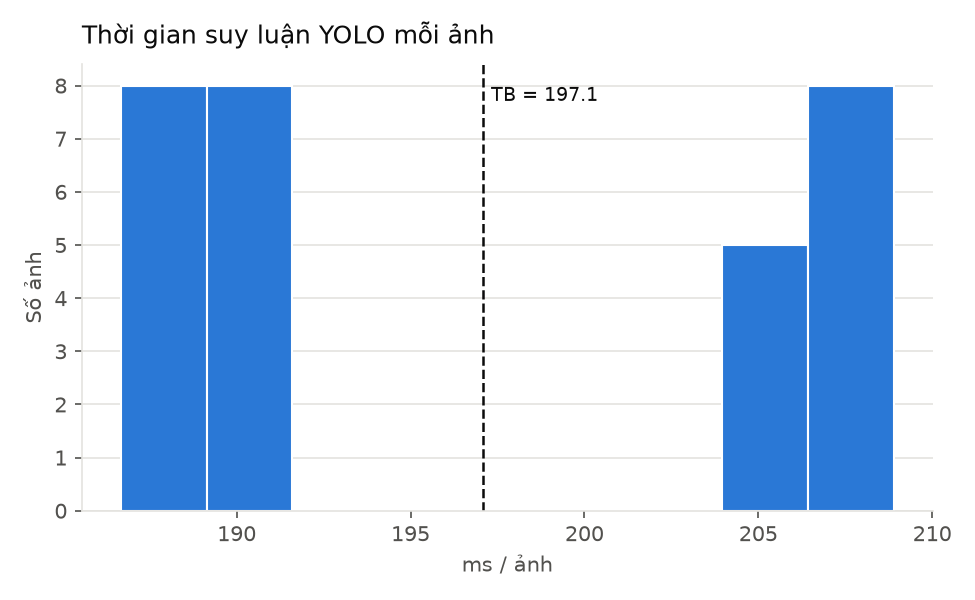
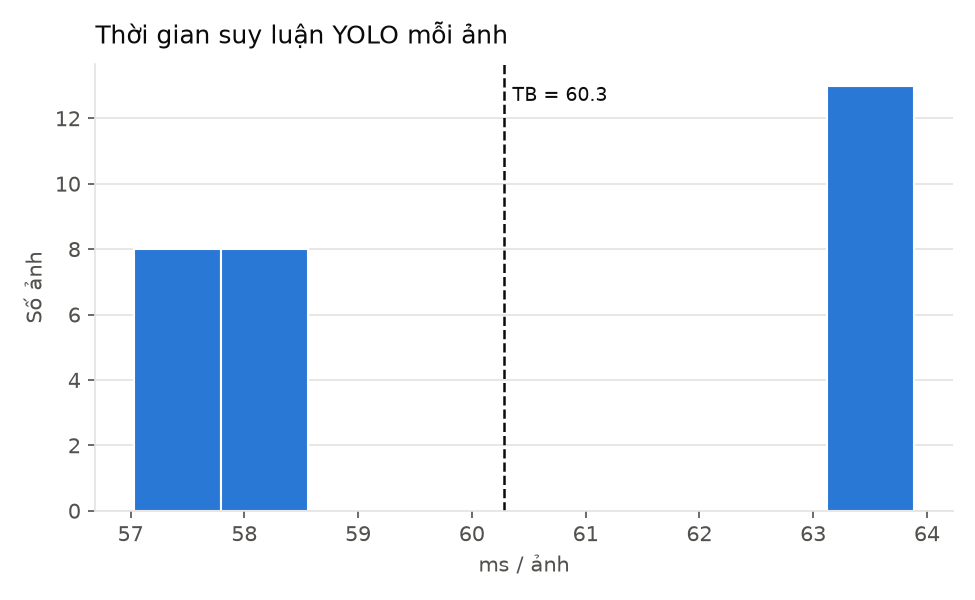
Ghep mu theo dau (pose) + bo hop no_helmet duoi mu

diff --git a/docs/05_experiments.md b/docs/05_experiments.md
@@ -25,6 +25,44 @@ Mọi số liệu trong báo cáo được đo trên máy của sinh viên:
 `models/best.pt` được giữ nguyên (không ghi đè, không huấn luyện lại).
 `best_v2.pt` là bản sao, chỉ dùng để so sánh.
 
+### Siêu tham số huấn luyện
+
+Hai mô hình được fine-tune (transfer learning) trên Google Colab từ trọng số tiền huấn luyện
+`yolo26n.pt`, dùng bộ dữ liệu Construction-PPE (11 lớp; 1.132 ảnh train, 143 val, 141 test).
+Các giá trị dưới đây đọc từ `train_args` và `train_results` lưu trong từng file `.pt`.
+
+| Tham số | `best.pt` | `best_v2.pt` |
+|---|---|---|
+| Tên lần chạy | `ppe_test` | `helmet_yolo26n_v2` |
+| Epochs cấu hình | 10 | 100 (patience 20) |
+| Epochs thực tế | 10 | 7 (tốt nhất ở epoch 6) |
+| Batch size | 8 | 16 |
+| Kích thước ảnh | 640 | 640 |
+| Optimizer | AdamW | AdamW |
+| lr0 / lrf | 0,000667 / 0,01 | 0,000667 / 0,01 |
+| Momentum / weight decay | 0,937 / 0,0005 | 0,937 / 0,0005 |
+| Warmup epochs / close mosaic | 3 / 10 | 3 / 10 |
+| Trọng số loss (box / cls / dfl) | 7,5 / 0,5 / 1,5 | 7,5 / 0,5 / 1,5 |
+| AMP / seed | Có / 0 | Có / 0 |
+| Phiên bản Ultralytics | 8.4.177 | 8.4.183 |
+
+Tăng cường dữ liệu (giống nhau ở cả hai): mosaic 1,0 · lật ngang 0,5 · HSV (h 0,015; s 0,7; v 0,4) ·
+translate 0,1 · scale 0,5 · random erasing 0,4 · RandAugment.
+
+Kết quả cuối trên tập val:
+
+| Chỉ số | `best.pt` | `best_v2.pt` |
+|---|---|---|
+| Precision | 0,835 | 0,859 |
+| Recall | 0,428 | 0,429 |
+| mAP@50 | 0,519 | 0,508 |
+| mAP@50-95 | 0,259 | 0,241 |
+| Thời gian huấn luyện | ≈ 241 s | ≈ 145 s |
+
+Lưu ý: lần chạy `best_v2` được cấu hình 100 epoch nhưng chỉ có 7 epoch được ghi nhận (dừng sớm
+hoặc bị ngắt). Lần chạy `best` chỉ 10 epoch, bằng đúng `close_mosaic`, nên mosaic bị tắt ngay từ
+đầu; cả hai chưa phải kết quả hội tụ.
+
 ## 5.3. Kịch bản kiểm thử
 
 | # | Kịch bản | Dữ liệu | Lệnh | Đầu ra |
